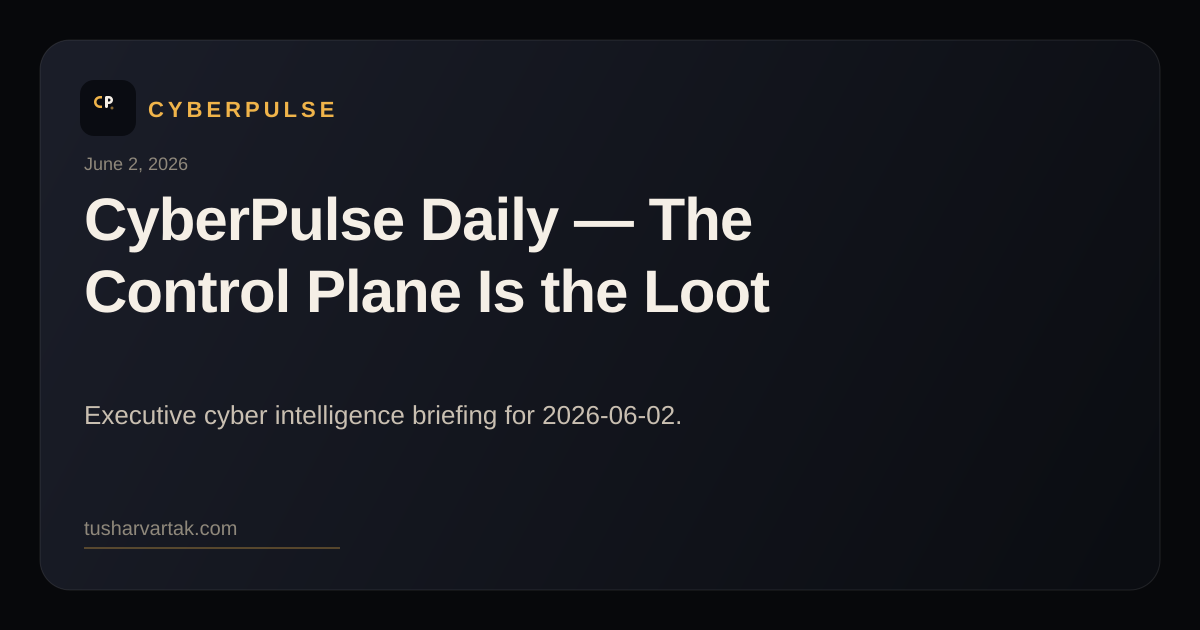
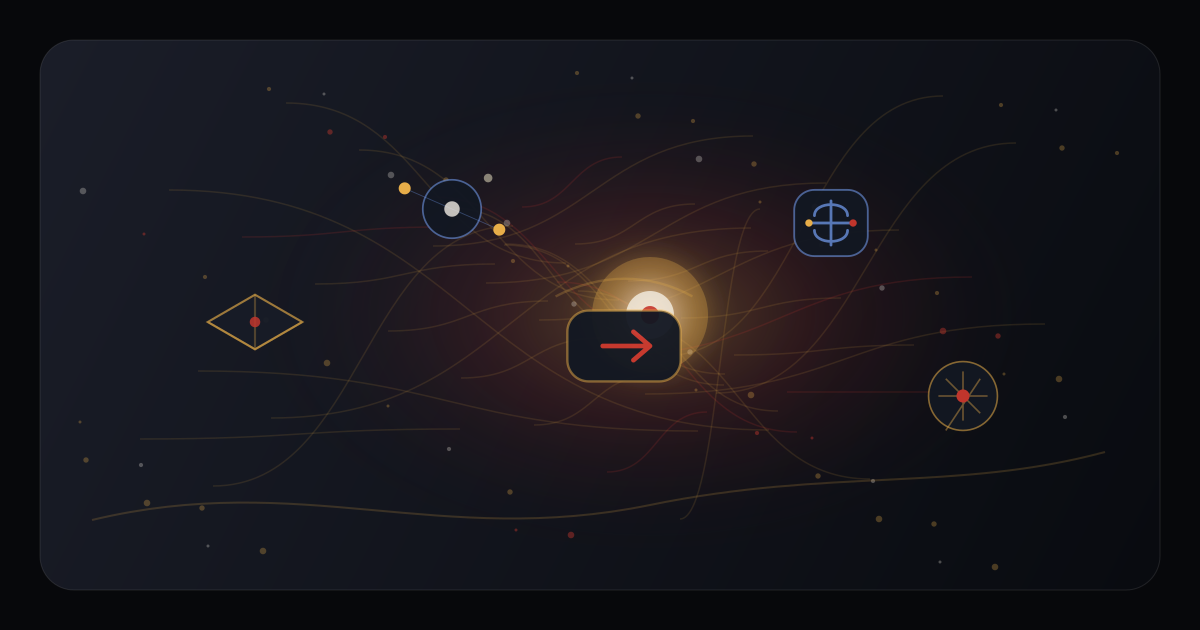
Add relevant CyberPulse cover generation

diff --git a/scripts/generate-cover.js b/scripts/generate-cover.js
@@ -1,20 +1,67 @@
 #!/usr/bin/env node
 const fs = require('fs');
 const path = require('path');
+const { execSync } = require('child_process');
 
 const [,, date, promptFile] = process.argv;
 if (!date) {
   console.error('Usage: node scripts/generate-cover.js YYYY-MM-DD [prompt-file]');
   process.exit(1);
 }
-if (!process.env.OPENAI_API_KEY) {
-  console.error('OPENAI_API_KEY is required');
-  process.exit(1);
-}
-const defaultPrompt = `Premium editorial hero image for a cybersecurity intelligence briefing. Theme: executive cyber risk, digital infrastructure, AI-accelerated threats, modern boardroom, dark premium palette, amber and red accents, magazine-cover quality, no text, no logos, no watermark.`;
-const prompt = promptFile ? fs.readFileSync(promptFile, 'utf8').trim() : defaultPrompt;
 
-async function main() {
+const ROOT = path.resolve(__dirname, '..');
+const outDir = path.join(ROOT, 'assets', 'covers');
+const promptDir = path.join(ROOT, 'assets', 'cover-prompts');
+fs.mkdirSync(outDir, { recursive: true });
+fs.mkdirSync(promptDir, { recursive: true });
+
+function esc(str = '') {
+  return String(str)
+    .replace(/&/g, '&amp;')
+    .replace(/</g, '&lt;')
+    .replace(/>/g, '&gt;')
+    .replace(/"/g, '&quot;');
+}
+
+function readContentManifest() {
+  const p = path.join(ROOT, 'content', `${date}.json`);
+  if (!fs.existsSync(p)) return {};
+  return JSON.parse(fs.readFileSync(p, 'utf8'));
+}
+
+function themeFromContent(entry) {
+  const text = [
+    entry.title,
+    entry.dek,
+    entry.primarySignal,
+    entry.whyItMatters,
+    ...(entry.tags || []),
+  ].join(' ').toLowerCase();
+  const themes = [];
+  if (/supply|package|dependency|build|software|registry/.test(text)) themes.push('supply-chain');
+  if (/identity|directory|credential|privilege|access/.test(text)) themes.push('identity');
+  if (/gateway|remote|session|vpn|edge/.test(text)) themes.push('gateway');
+  if (/ai|artificial intelligence|agent|workflow|connector|prompt/.test(text)) themes.push('ai-workflow');
+  if (/third.party|supplier|partner|adjacency/.test(text)) themes.push('third-party');
+  if (!themes.length) themes.push('control-plane');
+  return themes.slice(0, 5);
+}
+
+function buildPrompt(entry, themes) {
+  const title = entry.title || 'CyberPulse Daily';
+  const dek = entry.dek || entry.primarySignal || 'executive cyber risk and control-plane security';
+  const tags = (entry.tags || themes).join(', ');
+  return [
+    `Premium editorial article header image for CyberPulse Daily: "${title}".`,
+    `Strategic theme: ${dek}`,
+    `Visual motifs: ${themes.join(', ')}; tags: ${tags}.`,
+    'Show enterprise control planes as layered trust infrastructure: software packages, identity graphs, remote gateways, AI workflow connectors, and third-party access paths converging on one protected control core.',
+    'Dark premium magazine aesthetic, deep black/navy background, restrained amber/gold CyberPulse accents with subtle red risk highlights, cinematic but clean, executive cyber intelligence tone, Gulf enterprise security audience.',
+    'No text, no logos, no watermark, no country flags, no recognizable vendor marks, no people, no victim names. Leave calm negative space so the article title can sit nearby in the page layout.'
+  ].join(' ');
+}
+
+async function generateWithOpenAI(prompt, out) {
   const res = await fetch('https://api.openai.com/v1/images/generations', {
     method: 'POST',
     headers: {
@@ -22,7 +69,7 @@ async function main() {
       'Authorization': `Bearer ${process.env.OPENAI_API_KEY}`,
     },
     body: JSON.stringify({
-      model: 'dall-e-3',
+      model: process.env.CYBERPULSE_IMAGE_MODEL || 'dall-e-3',
       prompt,
       size: '1792x1024',
       quality: 'hd',
@@ -31,19 +78,124 @@ async function main() {
     })
   });
   const json = await res.json();
-  if (!res.ok) {
-    console.error(JSON.stringify(json, null, 2));
-    process.exit(1);
-  }
+  if (!res.ok) throw new Error(JSON.stringify(json, null, 2));
   const b64 = json.data?.[0]?.b64_json;
-  if (!b64) {
-    console.error('No image returned');
-    process.exit(1);
-  }
-  const outDir = path.join(process.cwd(), 'assets', 'covers');
-  fs.mkdirSync(outDir, { recursive: true });
-  const out = path.join(outDir, `${date}.png`);
+  if (!b64) throw new Error('No image returned');
   fs.writeFileSync(out, Buffer.from(b64, 'base64'));
-  console.log(out);
+  return 'openai';
 }
+
+function motifSvg(theme, x, y, scale = 1) {
+  const gold = '#F0B44A';
+  const cream = '#F5EFE6';
+  const red = '#C8372D';
+  const blue = '#7AA7FF';
+  const muted = '#8F887B';
+  if (theme === 'supply-chain') {
+    return `<g transform="translate(${x} ${y}) scale(${scale})" opacity="0.95">
+      <path d="M0 -26 45 0 0 26 -45 0Z" fill="#171B26" stroke="${gold}" stroke-opacity="0.65" stroke-width="2"/>
+      <path d="M0 -26 0 26M-45 0 0 26 45 0" stroke="${gold}" stroke-opacity="0.28" stroke-width="2"/>
+      <circle cx="0" cy="0" r="5" fill="${red}" opacity="0.85"/>
+    </g>`;
+  }
+  if (theme === 'identity') {
+    return `<g transform="translate(${x} ${y}) scale(${scale})" opacity="0.95">
+      <circle cx="0" cy="0" r="34" fill="#121722" stroke="${blue}" stroke-opacity="0.55" stroke-width="2"/>
+      ${[-55,55,0,0].map((v,i)=> i<2 ? `<line x1="0" y1="0" x2="${v}" y2="${i?24:-24}" stroke="${blue}" stroke-opacity="0.35"/>` : '').join('')}
+      <circle cx="0" cy="0" r="9" fill="${cream}" opacity="0.82"/>
+      <circle cx="-55" cy="-24" r="7" fill="${gold}"/><circle cx="55" cy="24" r="7" fill="${gold}"/><circle cx="42" cy="-36" r="5" fill="${muted}"/>
+    </g>`;
+  }
+  if (theme === 'gateway') {
+    return `<g transform="translate(${x} ${y}) scale(${scale})" opacity="0.95">
+      <rect x="-48" y="-30" width="96" height="60" rx="18" fill="#121722" stroke="${gold}" stroke-opacity="0.5" stroke-width="2"/>
+      <path d="M-18 0h36M8 -12 22 0 8 12" stroke="${red}" stroke-width="4" stroke-linecap="round" stroke-linejoin="round"/>
+      <path d="M-58 -42C-20 -62 22 -62 58 -42" stroke="${gold}" stroke-opacity="0.24" stroke-width="2" fill="none"/>
+    </g>`;
+  }
+  if (theme === 'ai-workflow') {
+    return `<g transform="translate(${x} ${y}) scale(${scale})" opacity="0.95">
+      <rect x="-40" y="-36" width="80" height="72" rx="22" fill="#121722" stroke="${blue}" stroke-opacity="0.55" stroke-width="2"/>
+      <path d="M-18 -8C-18 -24 18 -24 18 -8M-18 8C-18 24 18 24 18 8M-24 0h48M0 -24v48" stroke="${blue}" stroke-opacity="0.7" stroke-width="3" fill="none" stroke-linecap="round"/>
+      <circle cx="-24" cy="0" r="4" fill="${gold}"/><circle cx="24" cy="0" r="4" fill="${red}"/>
+    </g>`;
+  }
+  return `<g transform="translate(${x} ${y}) scale(${scale})" opacity="0.95">
+    <circle cx="0" cy="0" r="42" fill="#121722" stroke="${gold}" stroke-opacity="0.55" stroke-width="2"/>
+    <path d="M0 -30v60M-30 0h60M-21 -21l42 42M21 -21-21 42" stroke="${gold}" stroke-opacity="0.42" stroke-width="2"/>
+    <circle cx="0" cy="0" r="8" fill="${red}"/>
+  </g>`;
+}
+
+function generateFallbackSvg(entry, themes) {
+  const seed = [...date].reduce((a, c) => a + c.charCodeAt(0), 0);
+  const positions = [[270,310,1.05],[450,205,.86],[640,350,1.18],[830,235,.92],[980,385,.82]];
+  const motifs = positions.map((p, i) => motifSvg(themes[i % themes.length], p[0] + ((seed+i*17)%35-17), p[1] + ((seed+i*23)%31-15), p[2])).join('\n');
+  const lines = Array.from({ length: 34 }, (_, i) => {
+    const x1 = 130 + ((i * 73 + seed) % 920);
+    const y1 = 95 + ((i * 47 + seed) % 430);
+    const x2 = 600 + ((i * 53 + seed) % 380) - 190;
+    const y2 = 315 + ((i * 37 + seed) % 240) - 120;
+    const color = i % 5 === 0 ? '#C8372D' : '#F0B44A';
+    return `<path d="M${x1} ${y1} C${(x1+x2)/2} ${y1}, ${(x1+x2)/2} ${y2}, ${x2} ${y2}" stroke="${color}" stroke-opacity="${i%5===0 ? .16 : .12}" stroke-width="1.5" fill="none"/>`;
+  }).join('\n');
+  const dots = Array.from({ length: 62 }, (_, i) => {
+    const x = 80 + ((i * 61 + seed * 3) % 1040);
+    const y = 70 + ((i * 43 + seed * 5) % 500);
+    const r = 1.5 + ((i + seed) % 4) * .6;
+    const color = i % 7 === 0 ? '#C8372D' : (i % 3 === 0 ? '#F5EFE6' : '#F0B44A');
+    return `<circle cx="${x}" cy="${y}" r="${r.toFixed(1)}" fill="${color}" opacity="${i%7===0 ? .42 : .28}"/>`;
+  }).join('\n');
+  const title = esc(entry.title || 'Control-plane risk');
+  return `<svg width="1200" height="630" viewBox="0 0 1200 630" fill="none" xmlns="http://www.w3.org/2000/svg">
+    <rect width="1200" height="630" fill="#07080B"/>
+    <defs>
+      <radialGradient id="core" cx="0" cy="0" r="1" gradientUnits="userSpaceOnUse" gradientTransform="translate(650 315) rotate(90) scale(250 410)">
+        <stop stop-color="#F0B44A" stop-opacity="0.32"/><stop offset="0.42" stop-color="#C8372D" stop-opacity="0.14"/><stop offset="1" stop-color="#07080B" stop-opacity="0"/>
+      </radialGradient>
+      <linearGradient id="panel" x1="60" y1="40" x2="1140" y2="590" gradientUnits="userSpaceOnUse">
+        <stop stop-color="#1A1D28"/><stop offset="1" stop-color="#090B10"/>
+      </linearGradient>
+      <filter id="glow" x="-50%" y="-50%" width="200%" height="200%"><feGaussianBlur stdDeviation="14" result="b"/><feMerge><feMergeNode in="b"/><feMergeNode in="SourceGraphic"/></feMerge></filter>
+    </defs>
+    <rect x="40" y="40" width="1120" height="550" rx="34" fill="url(#panel)" stroke="rgba(255,255,255,0.10)"/>
+    <rect x="40" y="40" width="1120" height="550" rx="34" fill="url(#core)"/>
+    ${lines}
+    ${dots}
+    <g filter="url(#glow)"><circle cx="650" cy="315" r="58" fill="#F0B44A" opacity="0.28"/><circle cx="650" cy="315" r="24" fill="#F5EFE6" opacity="0.78"/><circle cx="650" cy="315" r="9" fill="#C8372D" opacity="0.92"/></g>
+    ${motifs}
+    <path d="M92 520 C300 470 440 548 650 505 C830 468 956 492 1105 452" stroke="#F0B44A" stroke-opacity="0.18" stroke-width="2" fill="none"/>
+  </svg>`;
+}
+
+function renderSvgToPng(svg, out) {
+  const svgPath = out.replace(/\.png$/, '.svg');
+  fs.writeFileSync(svgPath, svg);
+  execSync(`rsvg-convert -w 1200 -h 630 -o "${out}" "${svgPath}"`, { stdio: 'pipe' });
+  return svgPath;
+}
+
+async function main() {
+  const entry = readContentManifest();
+  const themes = themeFromContent(entry);
+  const prompt = promptFile ? fs.readFileSync(promptFile, 'utf8').trim() : buildPrompt(entry, themes);
+  const out = path.join(outDir, `${date}.png`);
+  const promptOut = path.join(promptDir, `${date}.txt`);
+  fs.writeFileSync(promptOut, prompt + '\n', 'utf8');
+
+  if (process.env.OPENAI_API_KEY) {
+    try {
+      const provider = await generateWithOpenAI(prompt, out);
+      console.log(JSON.stringify({ date, provider, output: out, prompt: promptOut, themes }, null, 2));
+      return;
+    } catch (err) {
+      console.error(`OpenAI image generation failed; falling back to procedural SVG: ${err.message}`);
+    }
+  }
+
+  const svg = generateFallbackSvg(entry, themes);
+  const svgPath = renderSvgToPng(svg, out);
+  console.log(JSON.stringify({ date, provider: 'procedural-svg', output: out, svg: svgPath, prompt: promptOut, themes }, null, 2));
+}
+
 main().catch(err => { console.error(err); process.exit(1); });